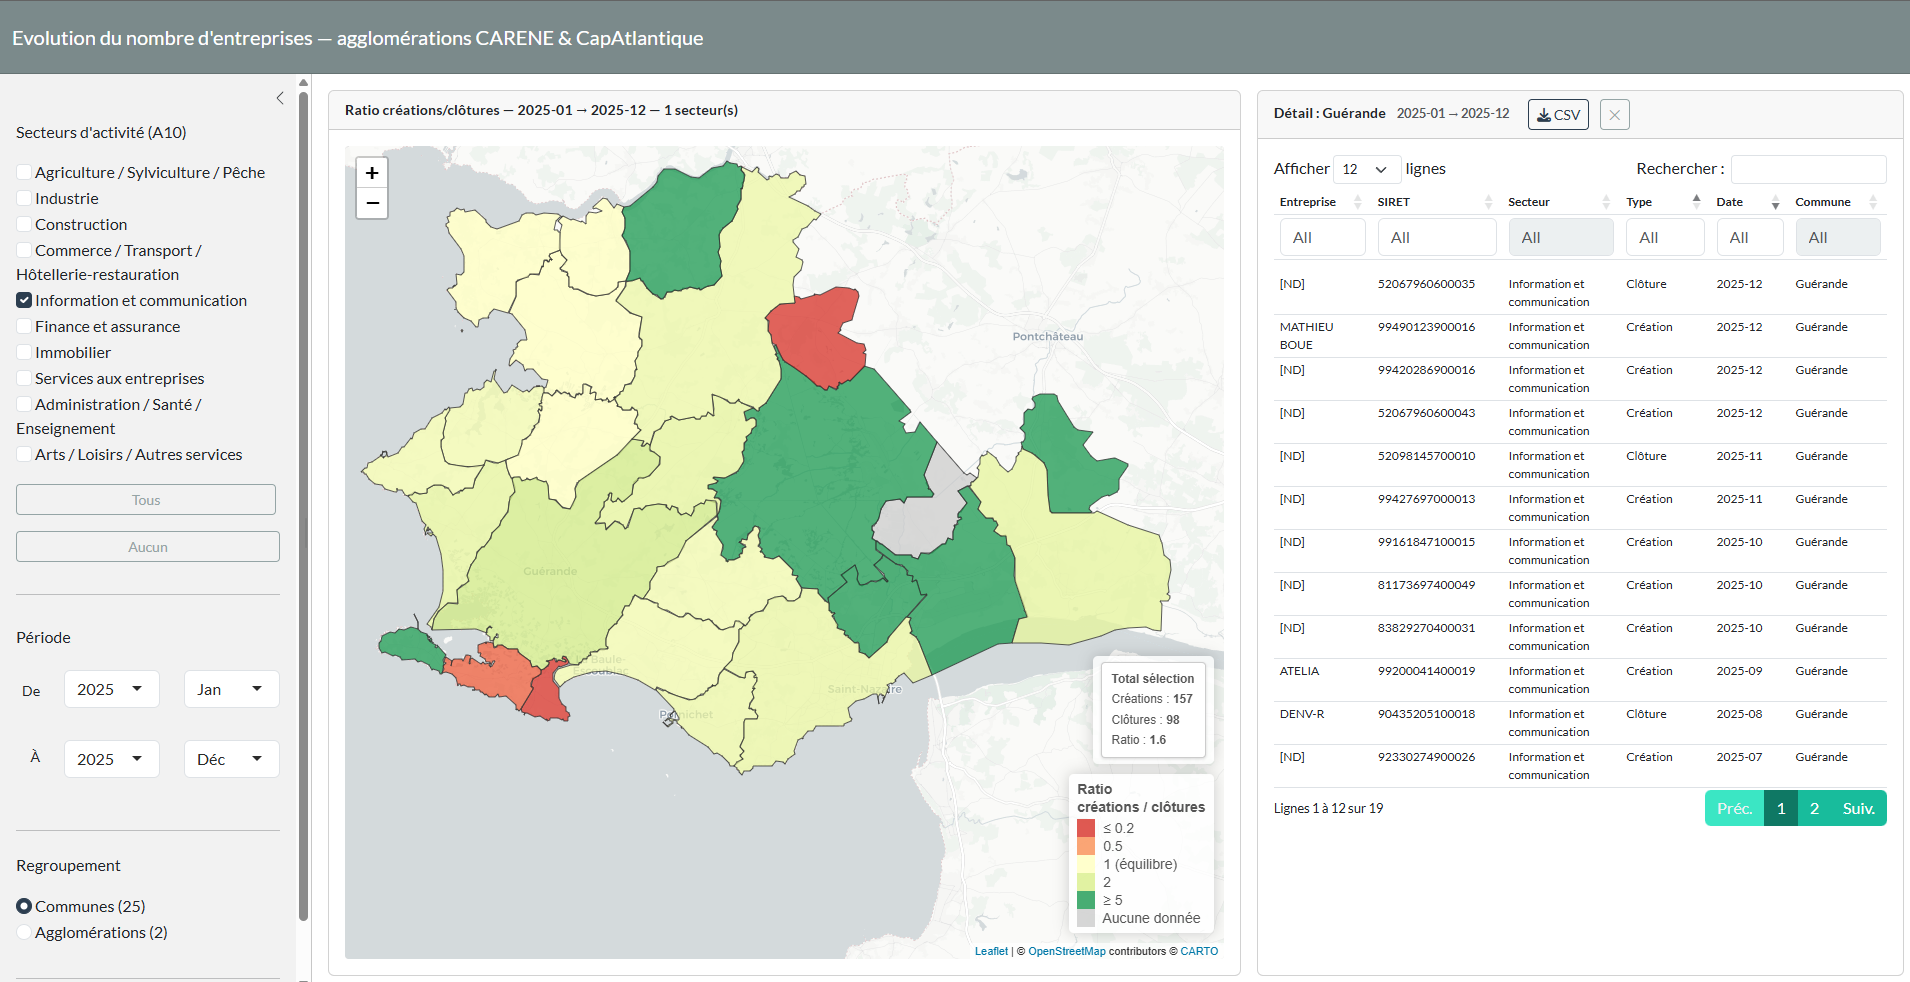
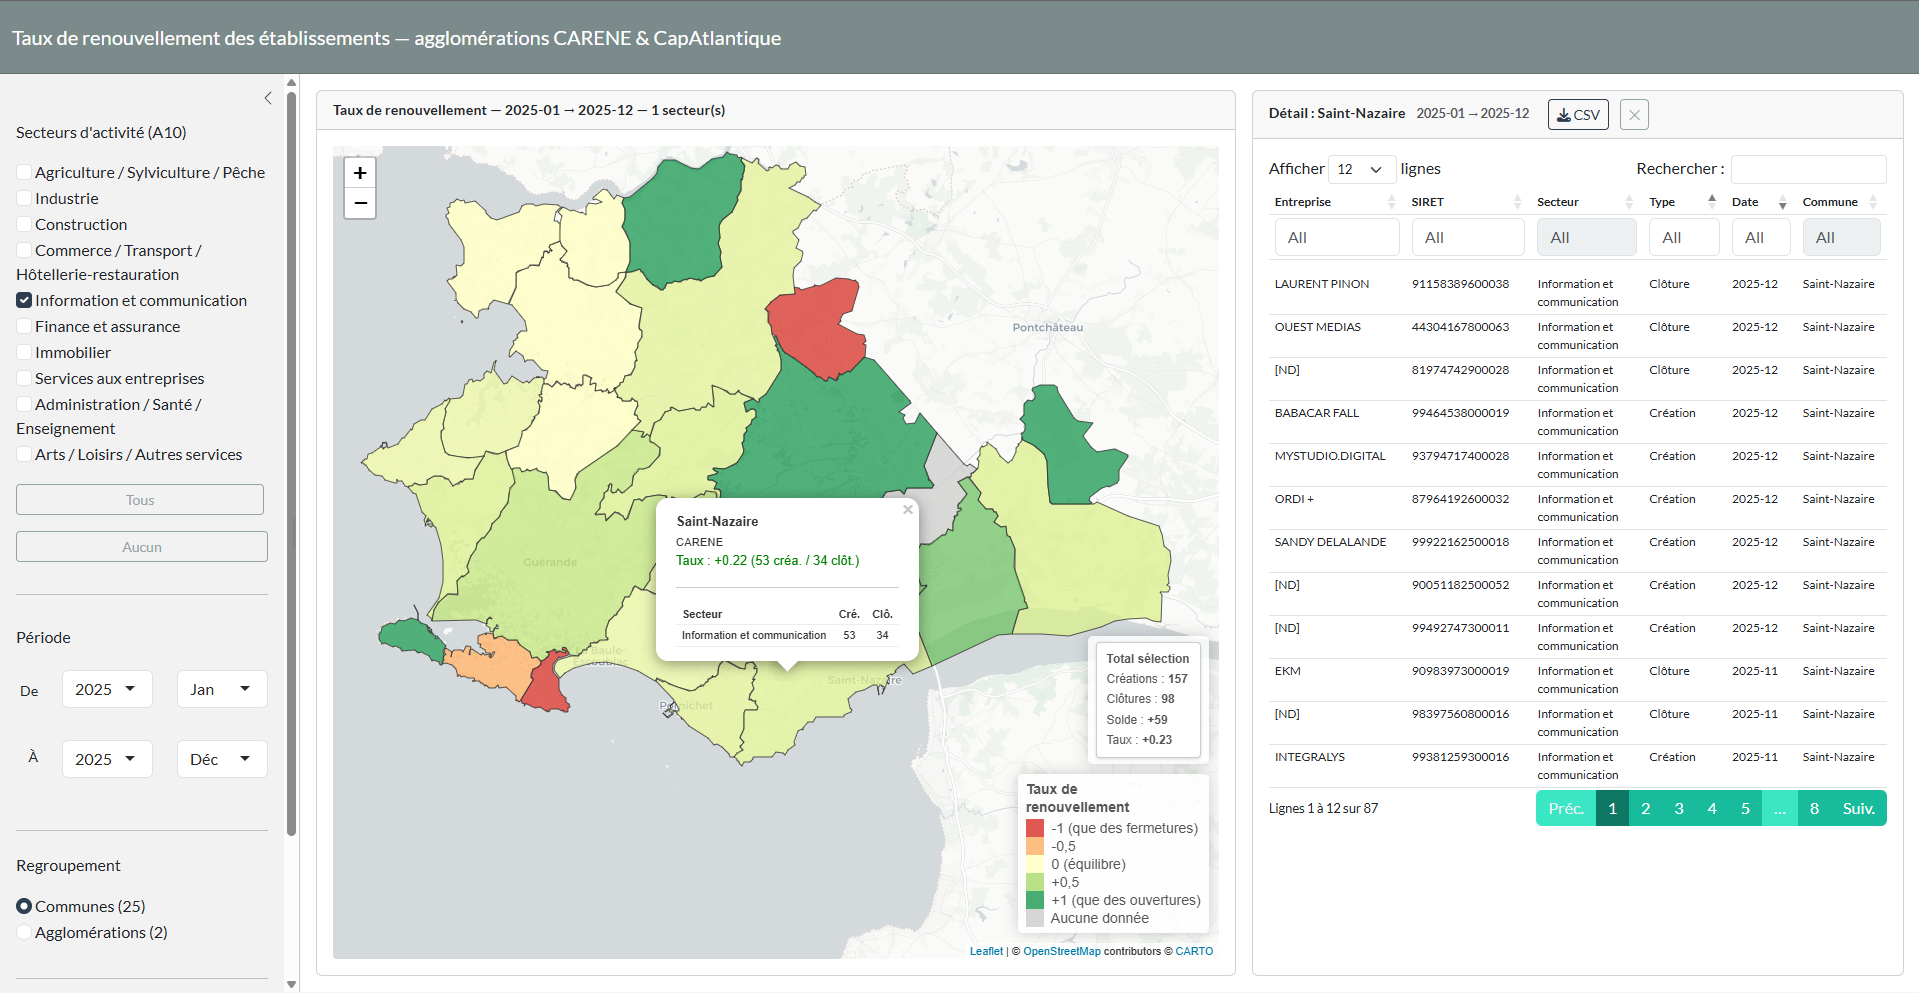
- Up README & screenshot.

diff --git a/README.md b/README.md
@@ -4,27 +4,27 @@
 
 Carte interactive visualisant le **taux de renouvellement des établissements** sur les
 bassins d'emploi des agglomérations **CARENE** et **CapAtlantique**, par secteur
-d'activité (nomenclature A10 INSEE), sur les 5 dernières années complètes.
+d'activité (nomenclature A10 INSEE), à partir de 2021.
 
 [![Aperçu de l'application](www/screenshot.png)](https://escaon.shinyapps.io/open_data_gouv/)
 
 ## Fonctionnalités
 
-- **Filtrage par secteur** : 10 macro-secteurs INSEE (A10) — Agriculture, Industrie, Construction, Commerce/Transport/Hôtellerie, Finance, Immobilier, Services, Santé/Enseignement, etc.
-- **Filtrage par période** : sélection année + mois de début et de fin (données disponibles depuis 2021, défaut : dernière année complète)
+- **Filtre par secteur** : 10 macro-secteurs INSEE (A10) — Agriculture, Industrie, Construction, Commerce/Transport/Hôtellerie, Finance, Immobilier, Services, Santé/Enseignement, etc.
+- **Filtre par période** : sélection année + mois de début et de fin (données disponibles depuis 2021, défaut : dernière année complète)
 - **Regroupement** : vue par commune (25) ou par agglomération (2)
-- **Colorisation** : taux de renouvellement `(C − F) / (C + F)` — rouge (-1, que des fermetures) → jaune (0, équilibre) → vert (+1, que des ouvertures)
-- **Popups** : détail par commune avec tableau récapitulatif par secteur
-- **Tableau de détail** : clic sur une zone → liste nominative des établissements créés/clôturés (SIRET, secteur, date, commune) avec export CSV
+- **Échelle de couleur** : taux de renouvellement `(C − F) / (C + F)` — rouge (-1, que des fermetures) → jaune (0, équilibre) → vert (+1, que des ouvertures)
+- **Popup** : détail par commune avec tableau récapitulatif par secteur
+- **Tableau** : clic sur une zone → liste nominative des établissements créés/clôturés (SIRET, secteur, date, commune) avec export CSV
 
 ## Données
 
 ### Base Sirene — INSEE (via data.gouv.fr)
 
-**Dataset :** [Base Sirene des entreprises et de leurs établissements (SIREN, SIRET)](https://www.data.gouv.fr/datasets/base-sirene-des-entreprises-et-de-leurs-etablissements-siren-siret/)
-**Producteur :** Institut national de la statistique et des études économiques (INSEE)
-**Licence :** [Licence Ouverte v2.0 (Etalab)](https://www.etalab.gouv.fr/wp-content/uploads/2017/04/ETALAB-Licence-Ouverte-v2.0.pdf)
-**Fréquence de mise à jour :** mensuelle (publication ~1er du mois, données du mois précédent)
+- **Dataset :** [Base Sirene des entreprises et de leurs établissements (SIREN, SIRET)](https://www.data.gouv.fr/datasets/base-sirene-des-entreprises-et-de-leurs-etablissements-siren-siret/)
+- **Producteur :** Institut national de la statistique et des études économiques (INSEE)
+- **Licence :** [Licence Ouverte v2.0 (Etalab)](https://www.etalab.gouv.fr/wp-content/uploads/2017/04/ETALAB-Licence-Ouverte-v2.0.pdf)
+- **Fréquence de mise à jour :** mensuelle (publication ~1er du mois, données du mois précédent)
 
 Trois fichiers Parquet sont utilisés, lus directement via DuckDB HTTP :
 
@@ -73,10 +73,10 @@ Trois fichiers Parquet sont utilisés, lus directement via DuckDB HTTP :
 renv::restore()
 
 # 2. Lancer l'application
-shiny::runApp(".")
+shiny::runApp(launch.browser = TRUE)
 ```
 
-> **Première exécution** : le chargement initial télécharge et filtre les fichiers
+> **Première exécution** (en local, ne conserne pas la version en ligne) : le chargement initial télécharge et filtre les fichiers
 > Sirene depuis data.gouv.fr (~3,8 Go au total via DuckDB HTTP).
 > Durée estimée : **15 à 25 minutes** selon la connexion.
 > Les résultats sont mis en cache dans `data/cache/` pour les lancements suivants.
